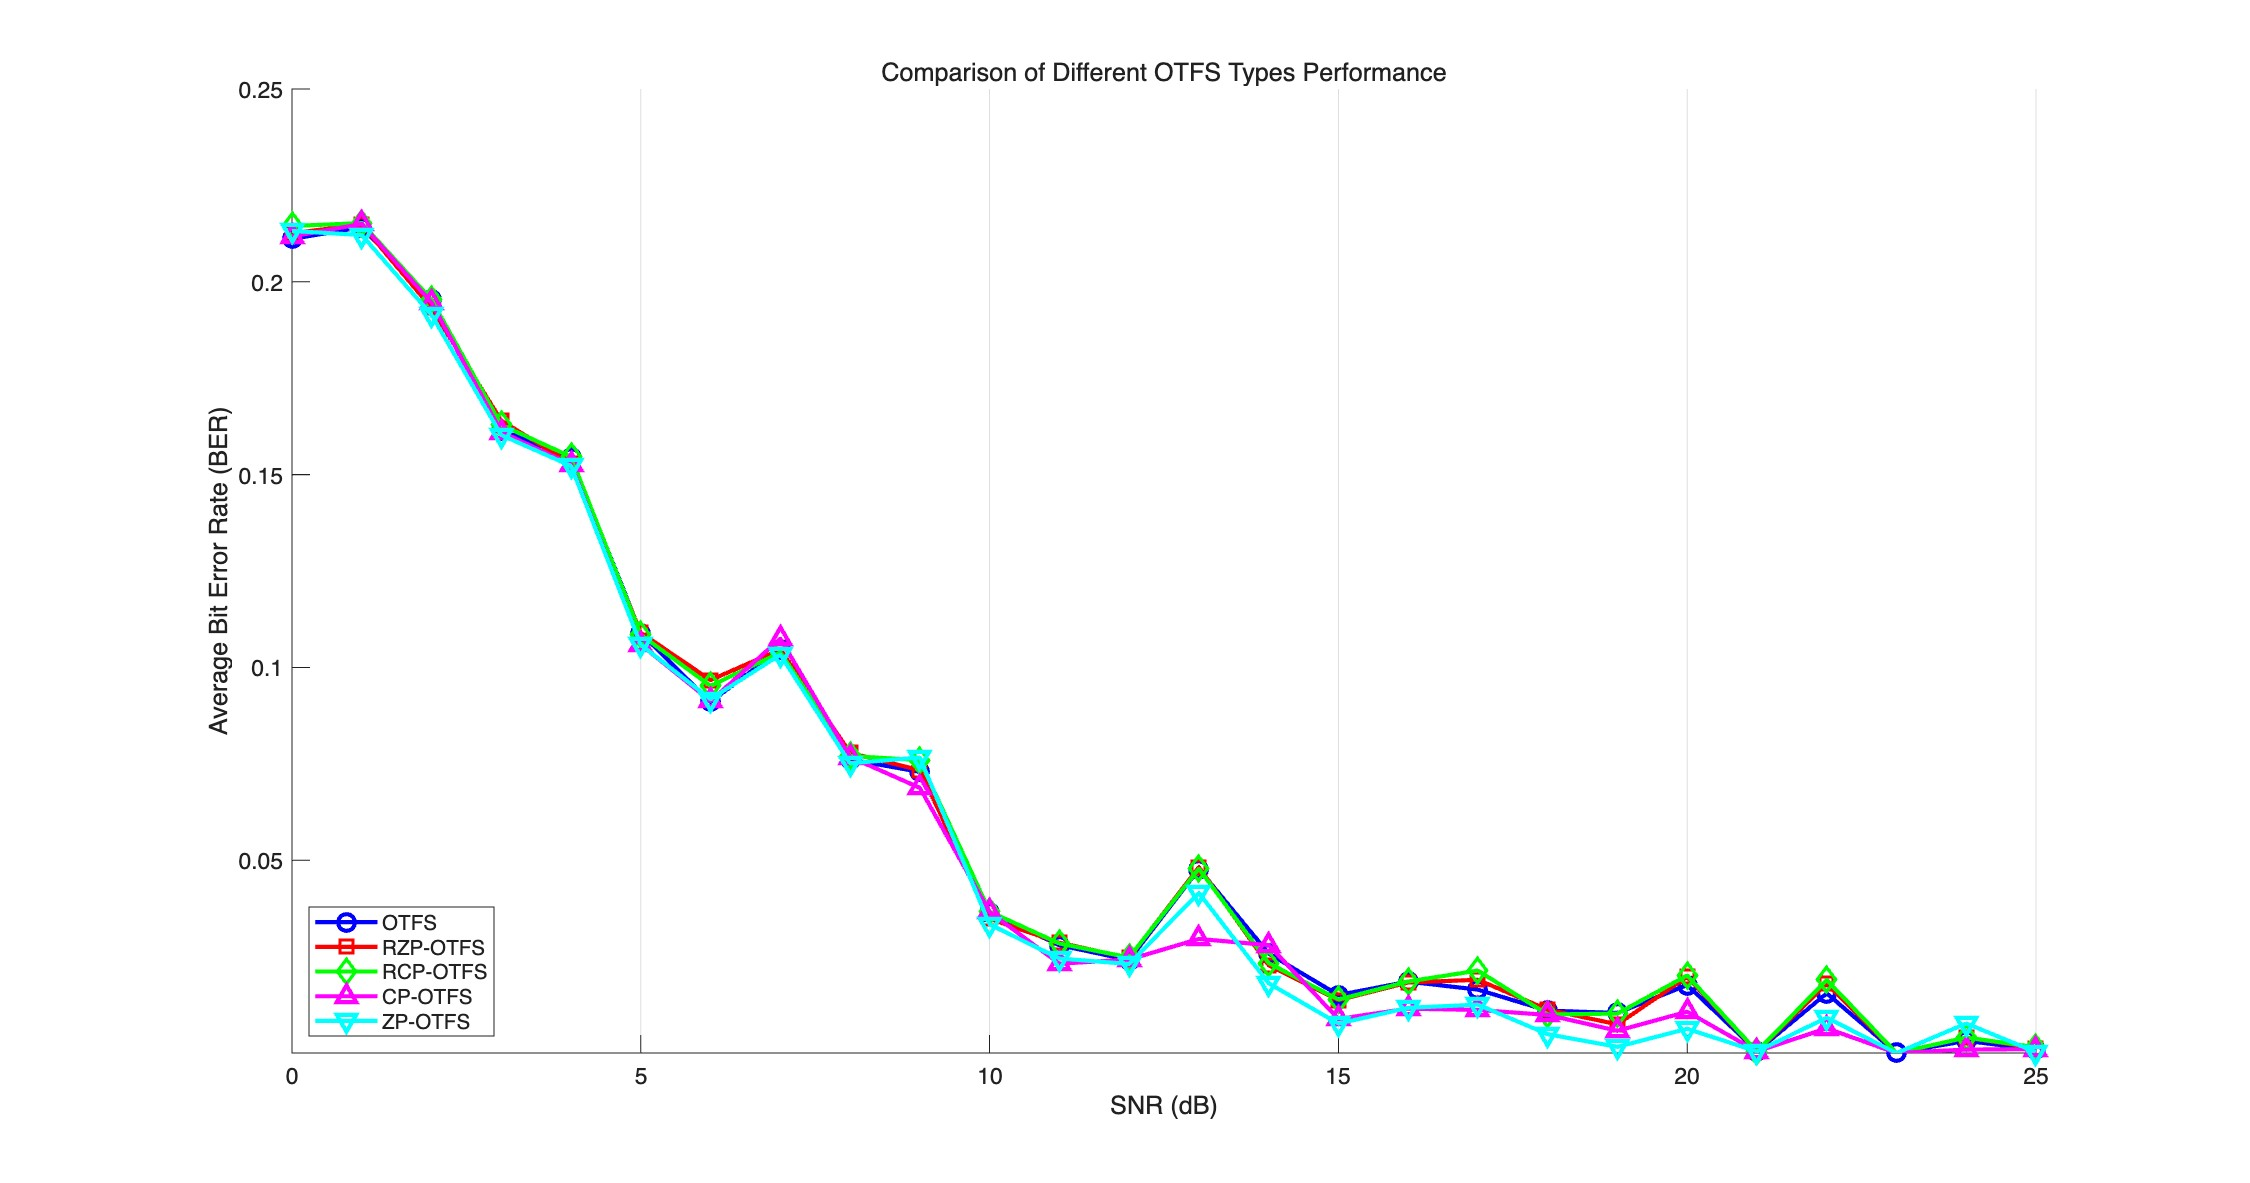
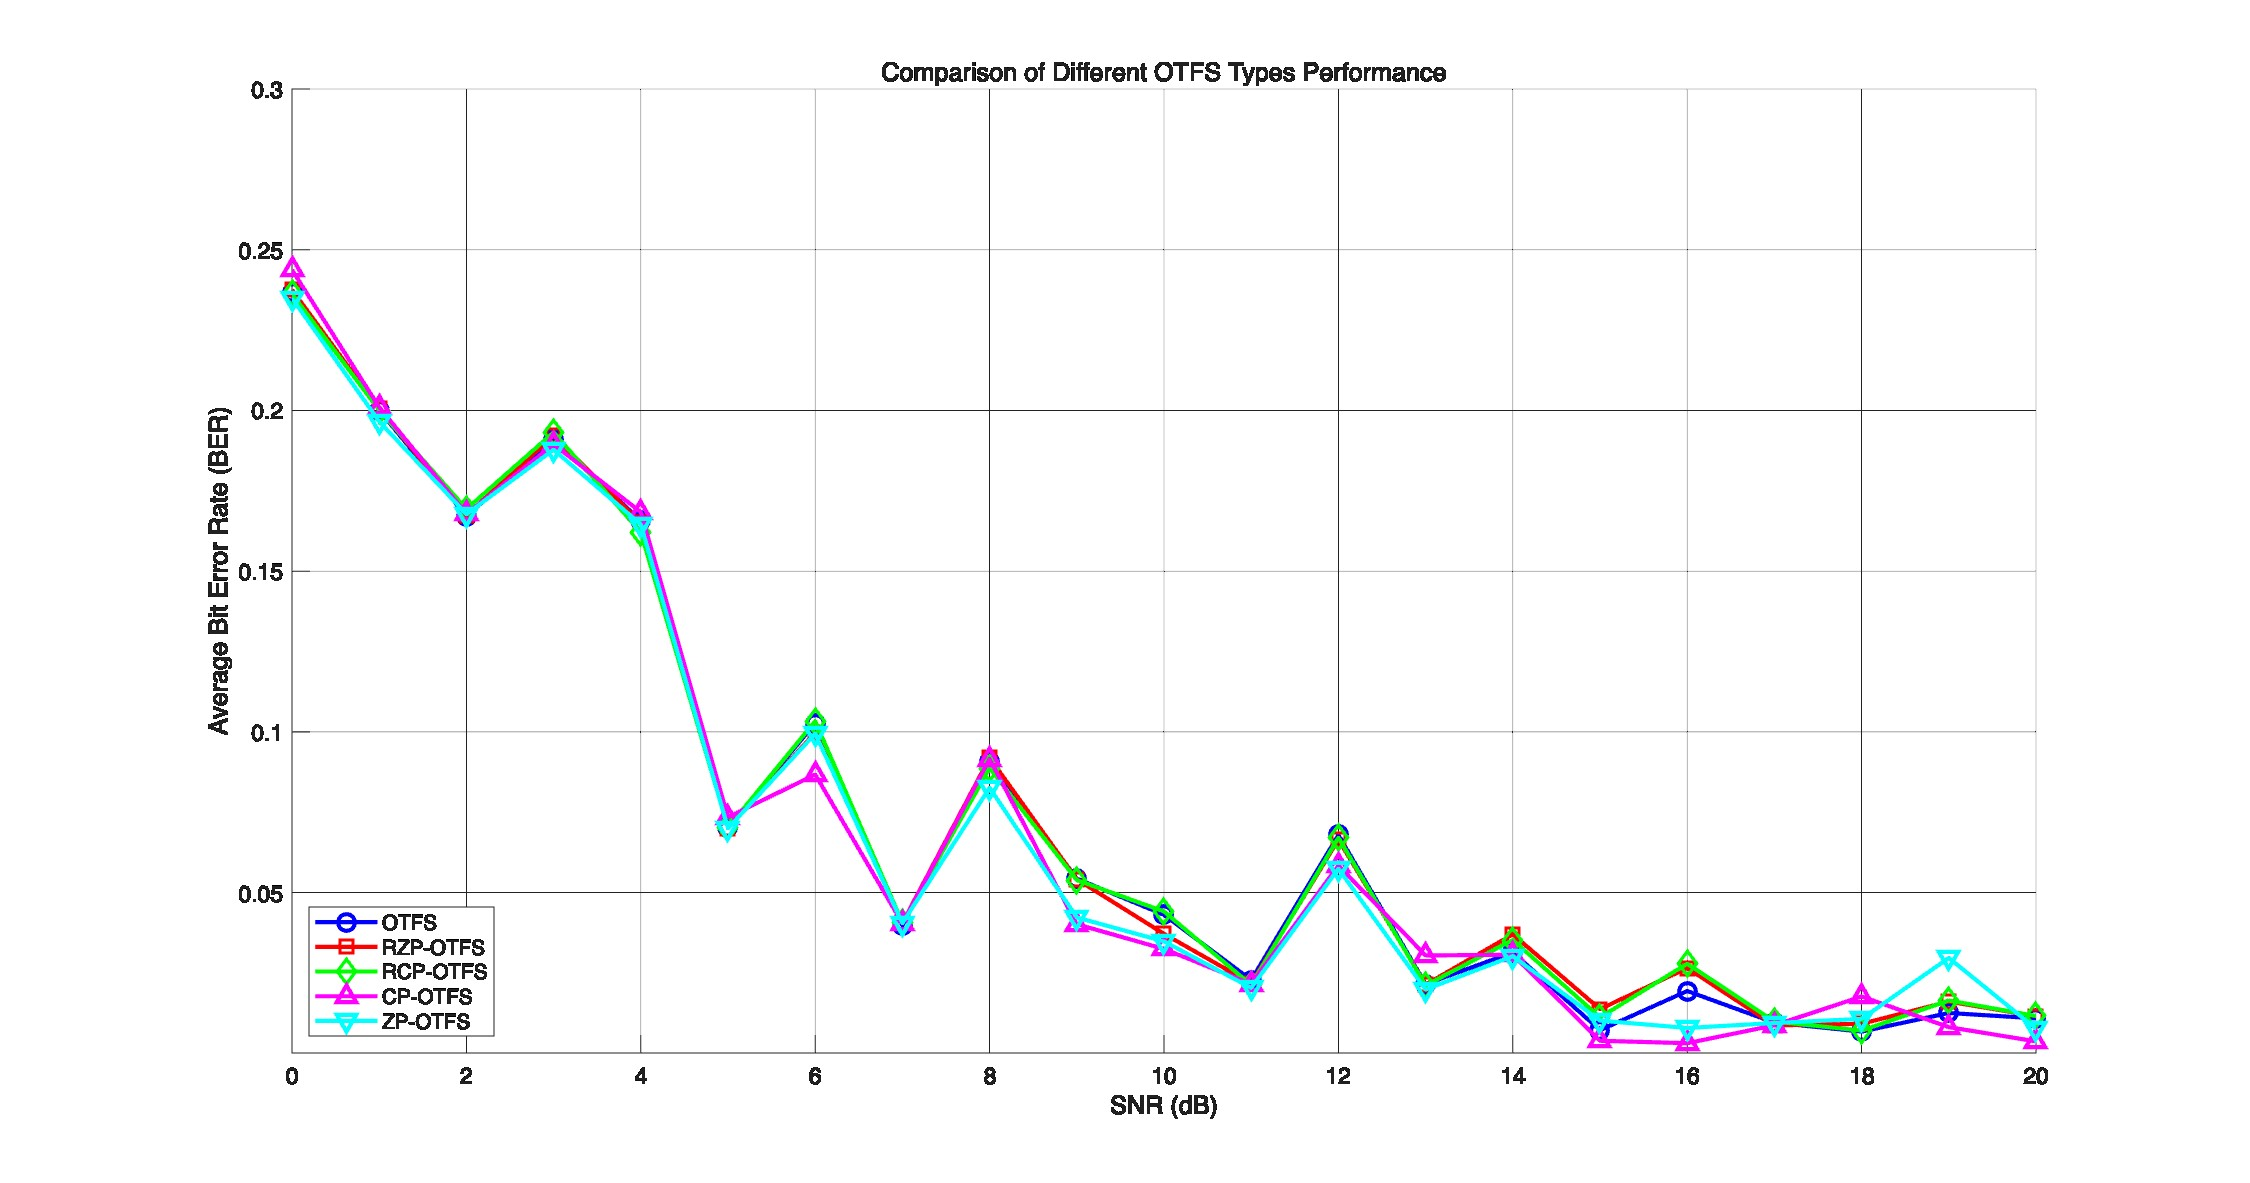
update simulation of RZP-OTFS

diff --git a/otfs_simulation.m b/otfs_simulation.m
@@ -120,6 +120,3 @@ title('Comparison of Different OTFS Types Performance');
 ylim([1e-4 1]);  % Set y-axis range
 legend('Location', 'southwest');
 ylabel('Average Bit Error Rate (BER)');
-title('Comparison of Different OTFS Types Performance');
-ylim([1e-4 1]);  % Set y-axis range
-legend('Location', 'southwest');

diff --git a/verify_rzp_otfs_G.m b/verify_rzp_otfs_G.m
@@ -1,5 +1,3 @@
-% filepath: /Users/zhenglihan/Documents/MATLAB/OTFS/verify_RZP_OTFS.m
-
 % Test parameters
 M = 4;          % Block size
 N = 2;          % Number of blocks

diff --git a/README.md b/README.md
@@ -60,24 +60,25 @@ Features:
 
 ## Performance Analysis
 
-The system includes comprehensive performance analysis capabilities:
+The system includes performance analysis capabilities:
 - BER (Bit Error Rate) vs SNR analysis
-- Monte Carlo simulations
 - Comparison between different OTFS variants
-- Performance visualization through plots
+
+### BER Performance Comparison
+Below shows the BER performance comparison of different OTFS variants:
+
+![BER Performance Comparison](BER_all.jpg)
+
+The figure shows the bit error rate (BER) performance comparison between different OTFS variants (Standard OTFS, RZP-OTFS, RCP-OTFS, CP-OTFS, and ZP-OTFS) under various SNR conditions.
 
 ## Usage
 
 1. Set system parameters in `otfs_simulation.m`
-2. Choose channel model and OTFS variant
-3. Run the simulation
-4. View performance results and BER plots
+2. Run the simulation
+3. View performance results and BER plots
 
 ## Dependencies
 
-- MATLAB (with Signal Processing Toolbox)
-- Communication Systems Toolbox
-
-## References
-
-1. 
+- MATLAB
+  - Signal Processing Toolbox
+  - Communication Systems Toolbox(including DSP System Toolbox)
